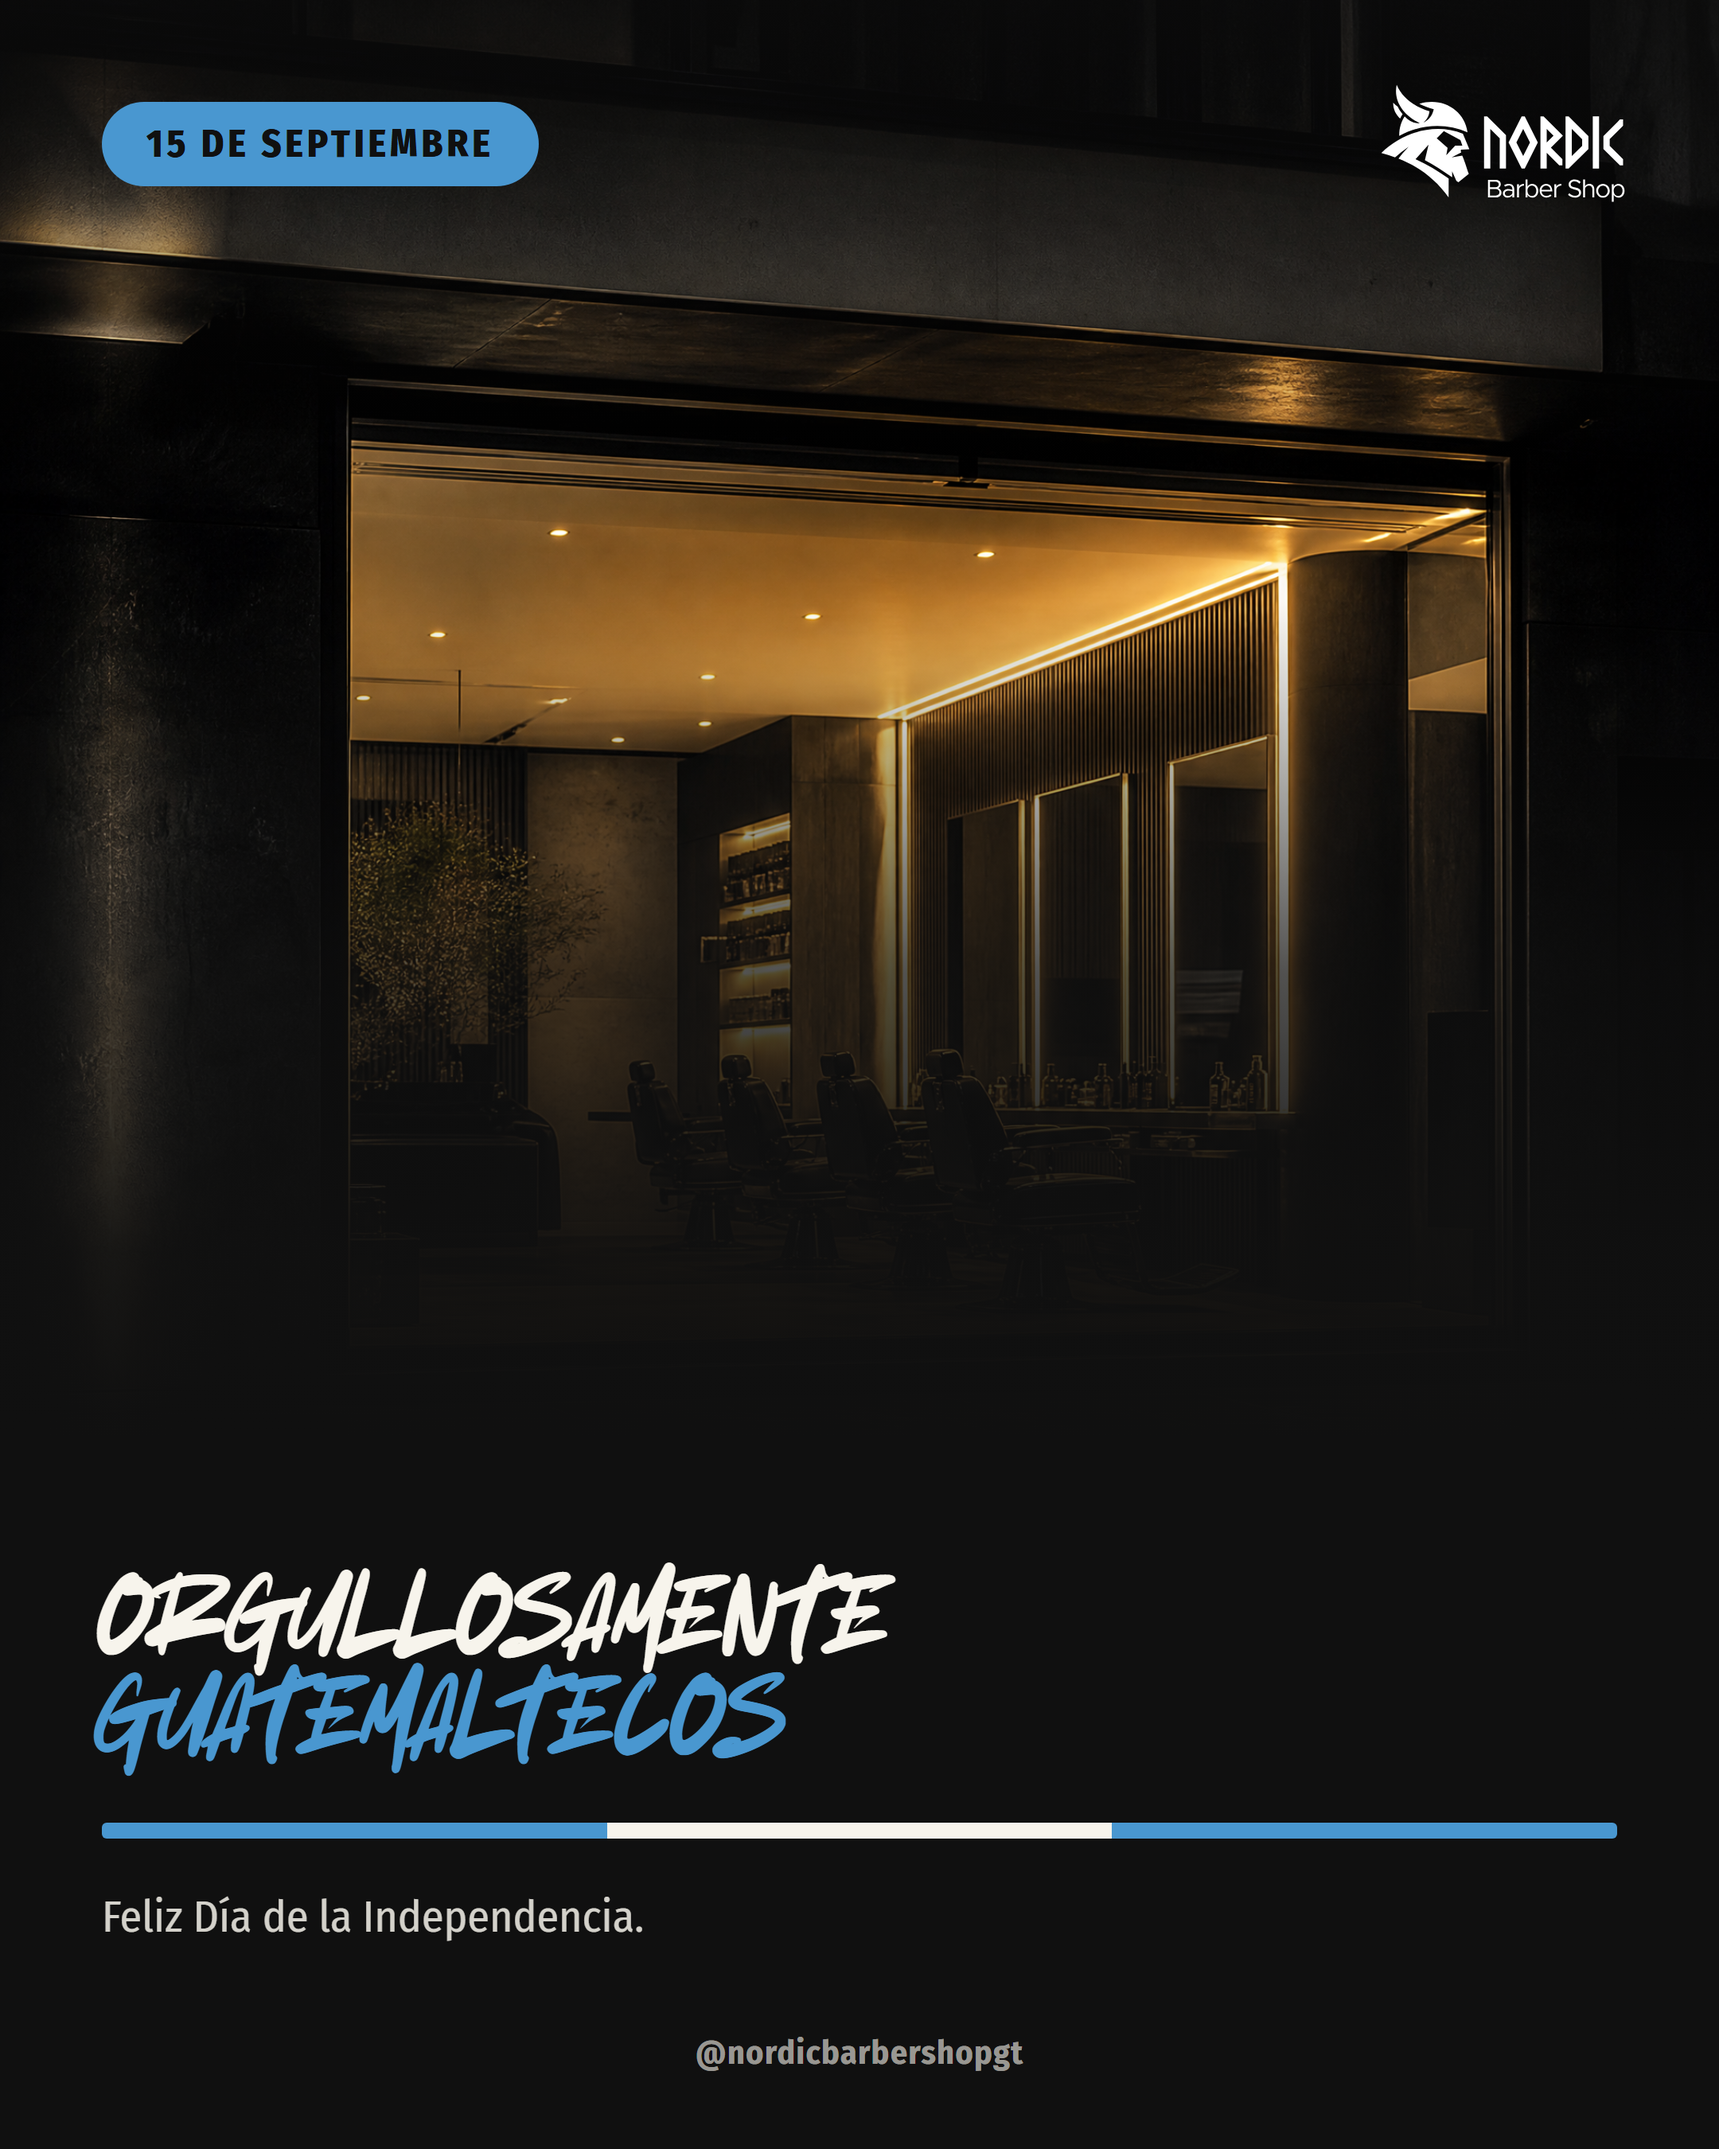
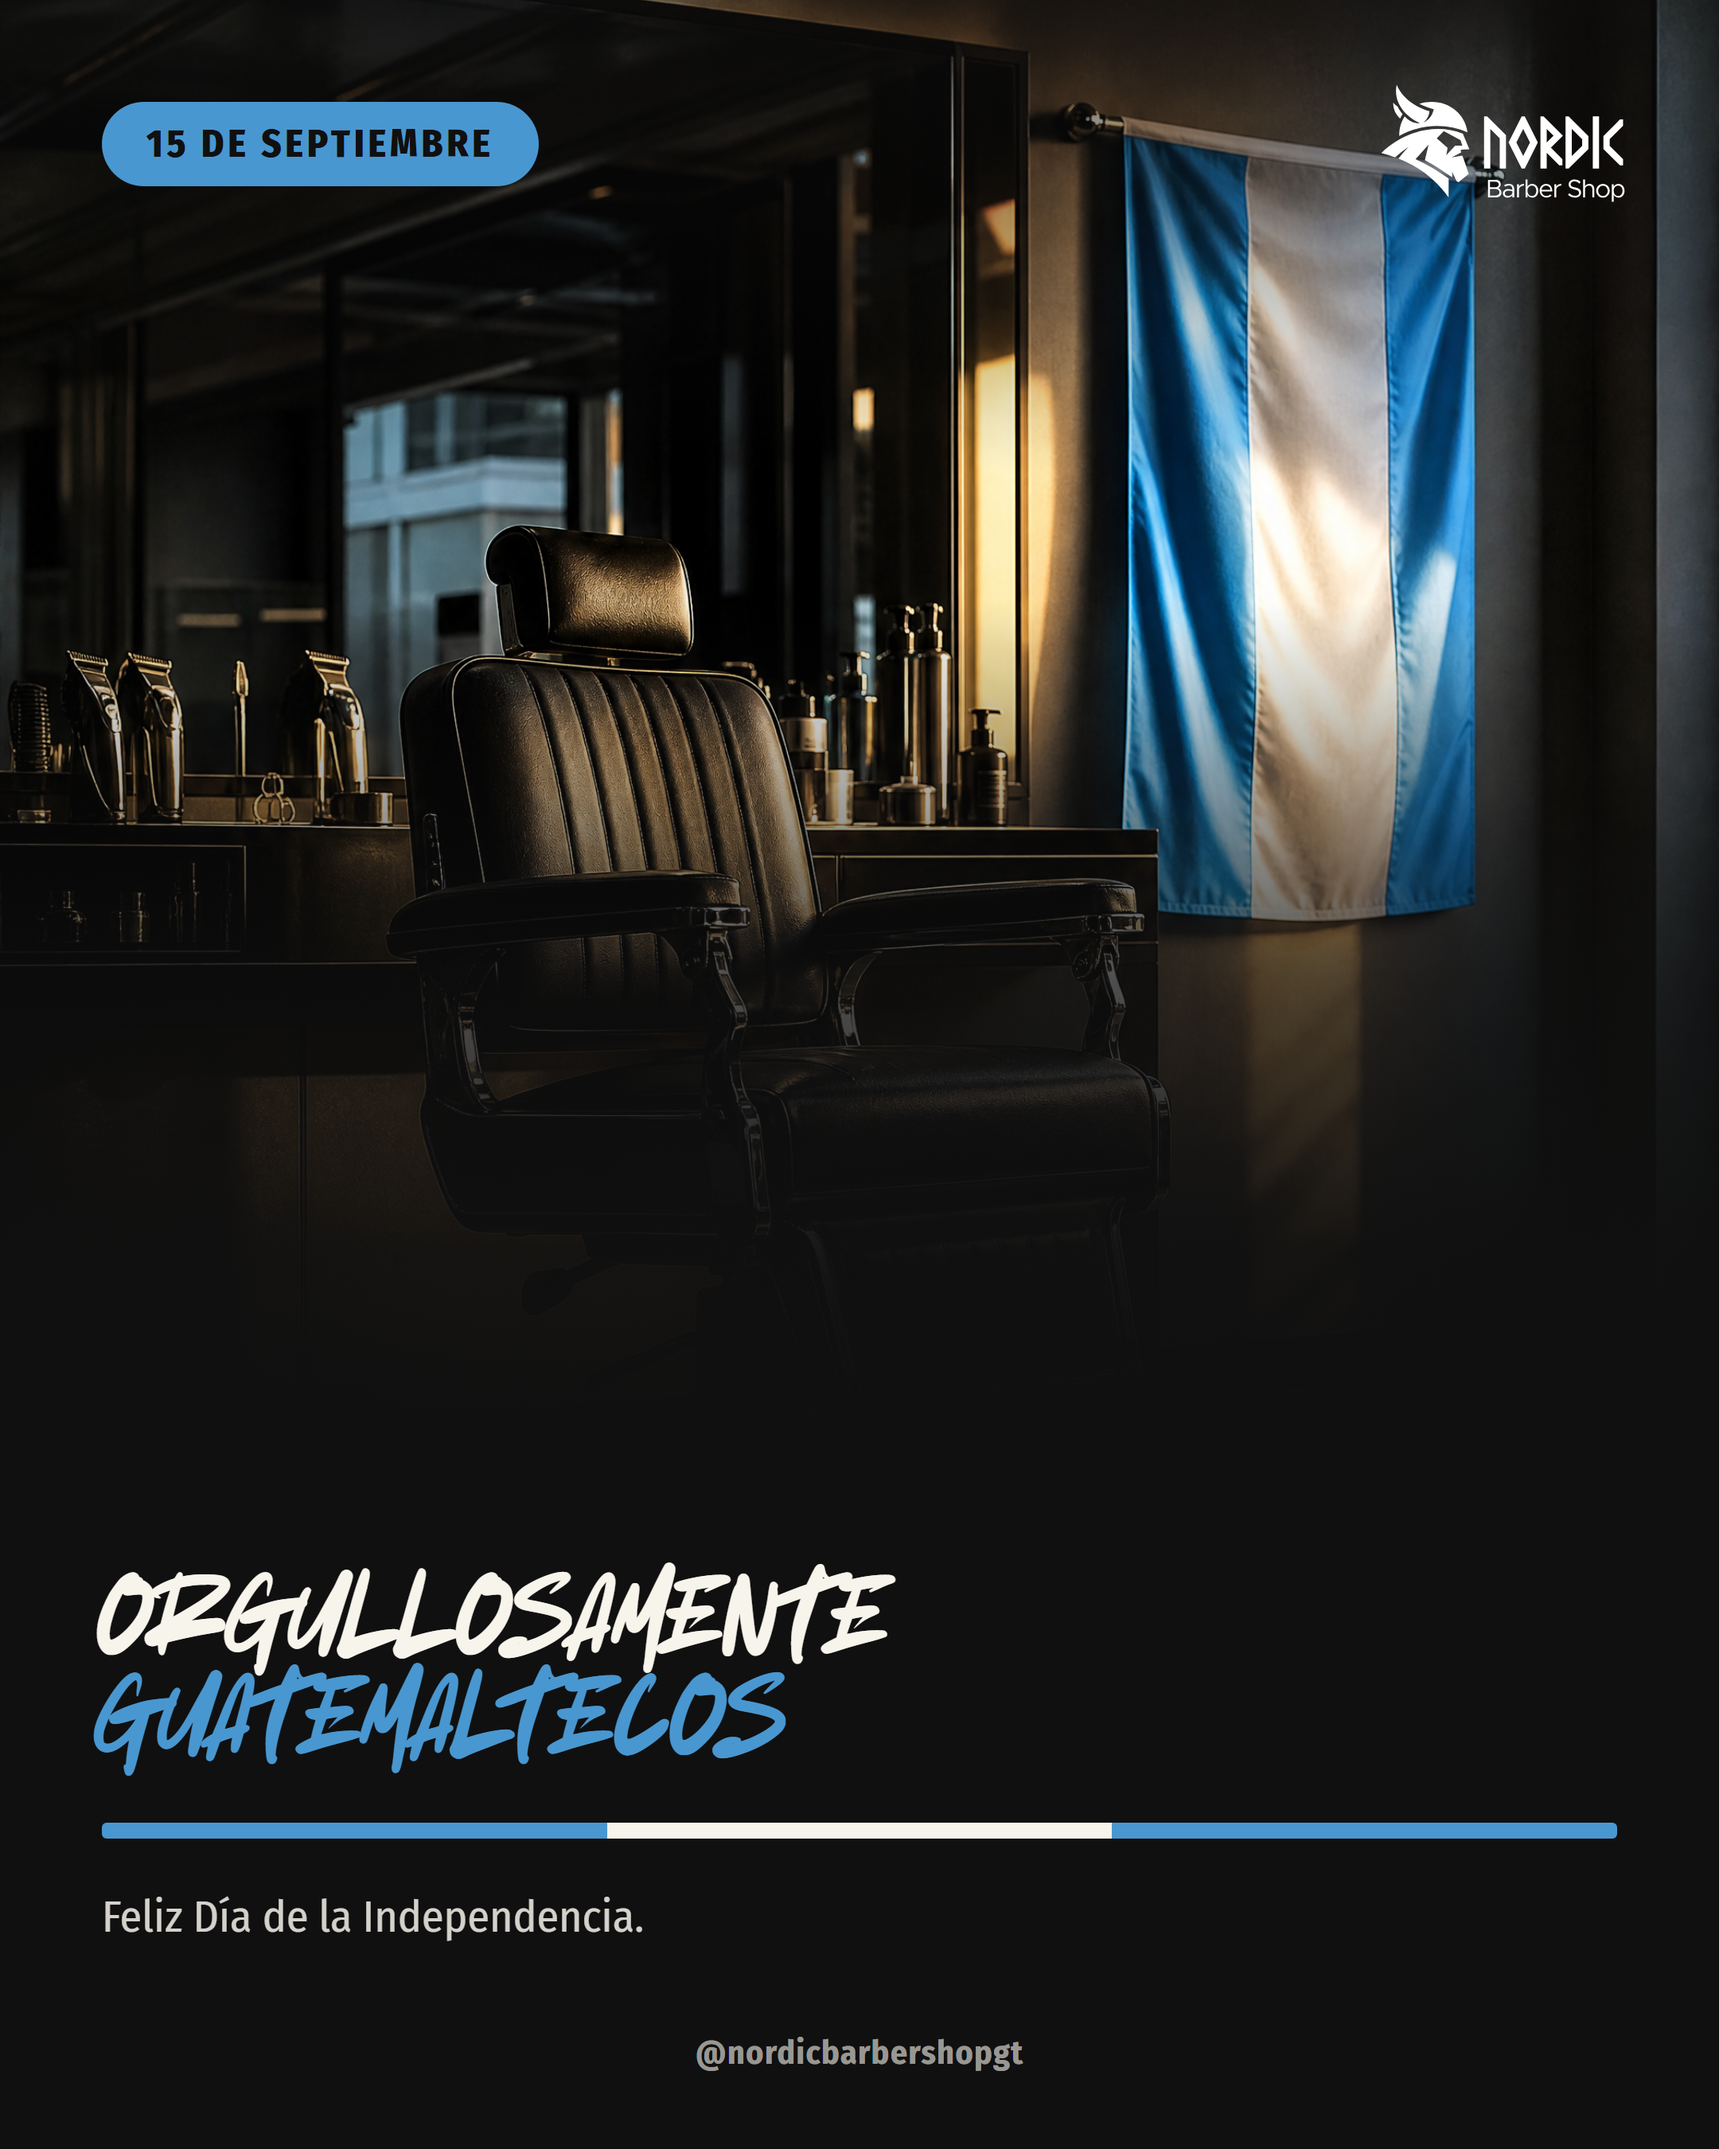
Revise 15 de septiembre post: barbershop interior + Guatemalan flag
Client feedback on the first version: (1) it looked too bare without a
real Guatemalan symbol -- the celeste accent alone wasn't enough --
and (2) the exterior storefront-at-night background didn't read as a
barbershop ("esas sillas del fondo no parecen una barberia").

Both backgrounds (feed 3:4/2K and story 9:16/2K, via
scripts/kie_image_gen.mjs) were regenerated as a barbershop interior:
classic barber chair with black leather upholstery and chrome pedestal,
large wall mirror, and a styling station with clippers/razor/scissors/
bottles clearly visible -- the same vocabulary already proven in
posts/instagram/horario-especial-15-septiembre/ and
posts/instagram/dia-partido-camiseta/. A real Guatemalan flag (three
vertical bands, celeste/white/celeste, no coat of arms) now hangs on
the wall as full-color fabric, the one deliberate brand exception in
an otherwise black-and-white duotone photo with a warm gold key light
-- same pattern and wording already validated in
posts/instagram/mundial-bandera-argentina/raw/bg.json and
posts/instagram/dia-partido-camiseta/.

The v1 exterior backgrounds are kept for reference at
raw/bg-v1-exterior.png and raw/bg-v1-exterior-story.png. The text
overlay (index.html / index-story.html: celeste pill, headline
highlight, flag-rule divider) is unchanged -- it now echoes the flag's
own colors instead of standing alone. copy.json's build_method and
root index.html's alt text updated to describe the new scene.
[…]

Changed region(s): [[0.0, 0.0, 0.8995, 0.5289], [0.9306, 0.0, 1.0, 0.4356]]

diff --git a/index.html b/index.html
@@ -432,7 +432,7 @@ const POSTS = [
     title:'Día de la Independencia de Guatemala',
     label:'Conmemorativo',
     cover:'posts/instagram/dia-independencia-guatemala/00-portada.png',
-    alt:'Post conmemorativo Nordic Barber Shop del 15 de septiembre: fachada nocturna de la barbería duotono con luz dorada, pill y titular en celeste guatemalteco — Orgullosamente guatemaltecos, feliz Día de la Independencia',
+    alt:'Post conmemorativo Nordic Barber Shop del 15 de septiembre: interior de barbería duotono con luz dorada, silla de barbero clásica y bandera de Guatemala a todo color colgada en la pared, pill y titular en celeste guatemalteco — Orgullosamente guatemaltecos, feliz Día de la Independencia',
     copyJson:'posts/instagram/dia-independencia-guatemala/copy.json',
     file:'00-portada.png'
   },
@@ -443,7 +443,7 @@ const POSTS = [
     title:'Día de la Independencia de Guatemala',
     label:'Versión: Story',
     cover:'posts/instagram/dia-independencia-guatemala/00-story.png',
-    alt:'Post conmemorativo Nordic Barber Shop del 15 de septiembre: fachada nocturna de la barbería duotono con luz dorada, pill y titular en celeste guatemalteco — Orgullosamente guatemaltecos, feliz Día de la Independencia, versión Story',
+    alt:'Post conmemorativo Nordic Barber Shop del 15 de septiembre: interior de barbería duotono con luz dorada, silla de barbero clásica y bandera de Guatemala a todo color colgada en la pared, pill y titular en celeste guatemalteco — Orgullosamente guatemaltecos, feliz Día de la Independencia, versión Story',
     copyJson:'posts/instagram/dia-independencia-guatemala/copy.json',
     file:'00-story.png'
   },
